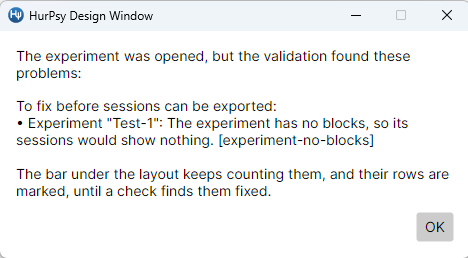
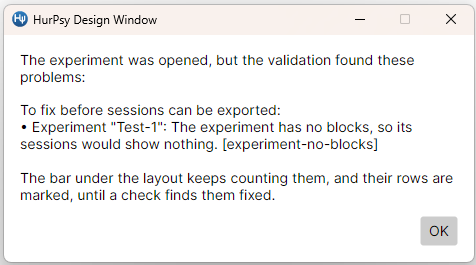
went over tutorial-3

Changed region(s): [[0.0, 0.0, 1.0, 1.0], [0.7479, 0.062, 0.7778, 0.093]]

diff --git a/docs/tutorial-1-introduction.md b/docs/tutorial-1-introduction.md
@@ -59,12 +59,14 @@ when the sessions are prepared and run.
 
 ## Sets: letting the session choose
 
-An experiment designer usually will not, and often should not,
-tie a particular stimulus to a particular locator.
-If the red circle always appeared on the left,
-the participants could learn that instead of doing the task.
-So we let the session pick the stimuli
-from named groups called **stimulus sets**.
+An experiment will ask the participant to perform a task,
+like keeping track or counting of a visual stimulus
+designated as the target.
+In HurPsyDesign a target stimulus will be picked
+from a **stimulus set**.
+That way, different participants will not all see the same target
+and their performance will not depend on a particular stimulus
+being the target all the time.
 
 ![The Stimulus Sets list with the target set and its details: one stimulus to pick, renewed once per session, in random order, from the six colored circles](images/tutorial-1/stimulus-set.png)
 
